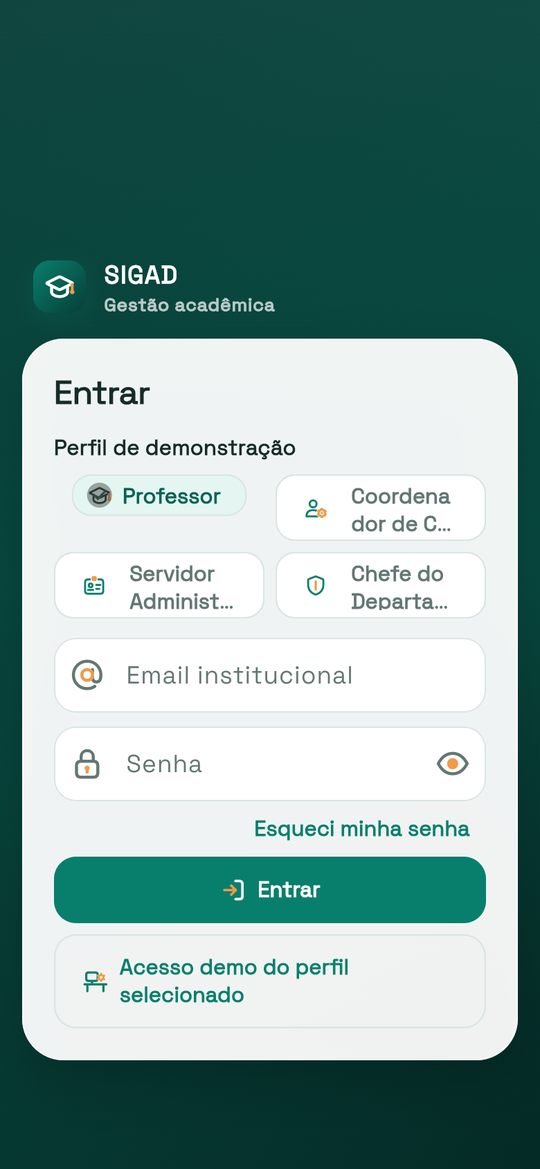
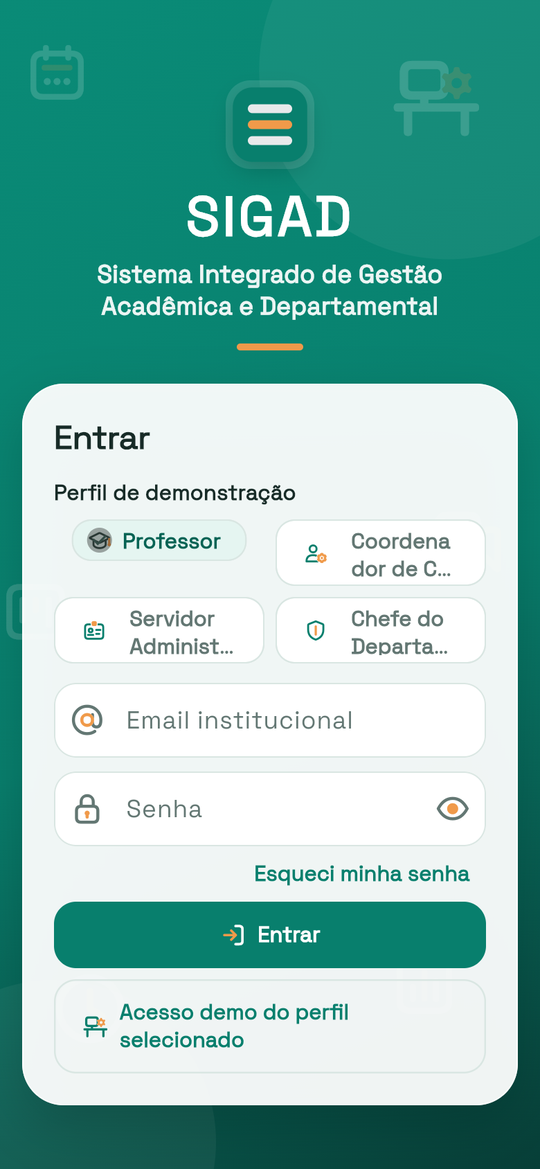
Redesenha a tela de entrada e mantém a foto do campus nos assets
A tela de entrada ganha fundo em degradê com círculos suaves e ícones do
SIGAD discretos, e uma apresentação com a logomarca de três barras, o
nome e o subtítulo do sistema. Em telas largas, a apresentação fica à
esquerda e o formulário à direita.

A foto do campus volta para assets/images, sem ser usada na tela.

Claude-Session: https://claude.ai/code/session_01X91bpgXAhfFeK7m6EUxjGv

diff --git a/lib/features/login/presentation/pages/login_page_v2.dart b/lib/features/login/presentation/pages/login_page_v2.dart
@@ -11,7 +11,6 @@ import '../../../../core/models/user_role.dart';
 import '../../../../core/services/app_event_logger.dart';
 import '../../../../core/services/app_feedback_service.dart';
 import '../../../../core/services/user_context_provider.dart';
-import '../../../../shared/widgets/brand_title.dart';
 
 class LoginPage extends StatefulWidget {
   const LoginPage({super.key});
@@ -55,35 +54,26 @@ class _LoginPageState extends State<LoginPage> {
                           constraints.maxWidth >= 760 && size.height >= 720;
 
                       return wide
-                          ? _LoginSurface(
-                              child: Row(
-                                crossAxisAlignment: CrossAxisAlignment.start,
-                                children: [
-                                  const Expanded(
-                                    flex: 5,
-                                    child: _InstitutionPanel(),
-                                  ),
-                                  const SizedBox(width: 24),
-                                  Expanded(flex: 6, child: _buildForm()),
-                                ],
-                              ),
+                          ? Row(
+                              crossAxisAlignment: CrossAxisAlignment.center,
+                              children: [
+                                const Expanded(
+                                  flex: 5,
+                                  child: _LoginHero(wide: true),
+                                ),
+                                const SizedBox(width: 40),
+                                Expanded(
+                                  flex: 6,
+                                  child: _LoginSurface(child: _buildForm()),
+                                ),
+                              ],
                             )
                           : Column(
                               crossAxisAlignment: CrossAxisAlignment.stretch,
                               children: [
-                                const SizedBox(
-                                  height: 150,
-                                  child: Padding(
-                                    padding: EdgeInsets.symmetric(
-                                      horizontal: 8,
-                                    ),
-                                    child: Align(
-                                      alignment: Alignment.bottomLeft,
-                                      child: _CompactBrandHeader(light: true),
-                                    ),
-                                  ),
-                                ),
-                                const SizedBox(height: 16),
+                                const SizedBox(height: 12),
+                                const _LoginHero(wide: false),
+                                const SizedBox(height: 24),
                                 _LoginSurface(child: _buildForm(compact: true)),
                               ],
                             );
@@ -332,52 +322,67 @@ class _LoginPageState extends State<LoginPage> {
   }
 }
 
-class _CompactBrandHeader extends StatelessWidget {
-  const _CompactBrandHeader({this.light = false});
+/// Apresentação do SIGAD na tela de entrada: logotipo, nome e subtítulo.
+///
+/// Em telas largas mostra também uma descrição curta e os destaques do app.
+class _LoginHero extends StatelessWidget {
+  const _LoginHero({required this.wide});
 
-  final bool light;
-
-  @override
-  Widget build(BuildContext context) {
-    return BrandTitle(compact: true, light: light);
-  }
-}
-
-class _InstitutionPanel extends StatelessWidget {
-  const _InstitutionPanel();
+  final bool wide;
 
   @override
   Widget build(BuildContext context) {
     final textTheme = Theme.of(context).textTheme;
-    return Container(
-      padding: const EdgeInsets.all(24),
-      decoration: BoxDecoration(
-        gradient: LinearGradient(
-          begin: Alignment.topLeft,
-          end: Alignment.bottomRight,
-          colors: [
-            SigadColors.brandDeep.withValues(alpha: 0.94),
-            SigadColors.brand.withValues(alpha: 0.86),
-          ],
+    final alinhamento = wide
+        ? CrossAxisAlignment.start
+        : CrossAxisAlignment.center;
+    final alinhamentoTexto = wide ? TextAlign.start : TextAlign.center;
+
+    return Column(
+      mainAxisSize: MainAxisSize.min,
+      crossAxisAlignment: alinhamento,
+      children: [
+        _Logomarca(tamanho: wide ? 84 : 64),
+        SizedBox(height: wide ? 22 : 14),
+        Text(
+          'SIGAD',
+          textAlign: alinhamentoTexto,
+          style: (wide ? textTheme.displayMedium : textTheme.displaySmall)
+              ?.copyWith(
+                color: Colors.white,
+                fontWeight: FontWeight.w800,
+                letterSpacing: 2,
+                height: 1,
+              ),
         ),
-        borderRadius: BorderRadius.circular(22),
-        border: Border.all(color: Colors.white.withValues(alpha: 0.18)),
-      ),
-      child: Column(
-        mainAxisSize: MainAxisSize.min,
-        crossAxisAlignment: CrossAxisAlignment.start,
-        children: [
-          const BrandTitle(compact: true, light: true),
-          const SizedBox(height: 24),
-          Text(
-            'Gestão acadêmica e departamental.',
-            style: textTheme.headlineSmall?.copyWith(color: Colors.white),
+        const SizedBox(height: 10),
+        Text(
+          'Sistema Integrado de Gestão\nAcadêmica e Departamental',
+          textAlign: alinhamentoTexto,
+          style: (wide ? textTheme.titleLarge : textTheme.titleMedium)
+              ?.copyWith(
+                color: Colors.white.withValues(alpha: 0.92),
+                fontWeight: FontWeight.w600,
+                height: 1.3,
+              ),
+        ),
+        const SizedBox(height: 16),
+        Container(
+          width: 48,
+          height: 5,
+          decoration: BoxDecoration(
+            color: SigadColors.accent,
+            borderRadius: BorderRadius.circular(3),
           ),
-          const SizedBox(height: 10),
+        ),
+        if (wide) ...[
+          const SizedBox(height: 22),
           Text(
-            'Planeje as atividades do DEE: carga docente, laboratórios, reuniões e demandas.',
-            style: textTheme.bodyMedium?.copyWith(
+            'Planeje as atividades do departamento: carga docente, '
+            'laboratórios, reuniões e demandas.',
+            style: textTheme.bodyLarge?.copyWith(
               color: Colors.white.withValues(alpha: 0.82),
+              height: 1.4,
             ),
           ),
           const SizedBox(height: 22),
@@ -394,6 +399,66 @@ class _InstitutionPanel extends StatelessWidget {
             label: 'Indicadores e relatórios',
           ),
         ],
+      ],
+    );
+  }
+}
+
+/// Logomarca do SIGAD: as três barras do ícone do app, com a do meio em
+/// destaque.
+class _Logomarca extends StatelessWidget {
+  const _Logomarca({required this.tamanho});
+
+  final double tamanho;
+
+  @override
+  Widget build(BuildContext context) {
+    final barra = tamanho * 0.5;
+    final espessura = tamanho * 0.1;
+
+    Widget linha(Color cor) => Container(
+      width: barra,
+      height: espessura,
+      decoration: BoxDecoration(
+        color: cor,
+        borderRadius: BorderRadius.circular(espessura / 2),
+      ),
+    );
+
+    return Semantics(
+      label: 'Logotipo do SIGAD',
+      image: true,
+      child: Container(
+        width: tamanho,
+        height: tamanho,
+        padding: EdgeInsets.all(tamanho * 0.08),
+        decoration: BoxDecoration(
+          color: Colors.white.withValues(alpha: 0.12),
+          borderRadius: BorderRadius.circular(tamanho * 0.28),
+        ),
+        child: DecoratedBox(
+          decoration: BoxDecoration(
+            color: SigadColors.brand,
+            borderRadius: BorderRadius.circular(tamanho * 0.22),
+            boxShadow: [
+              BoxShadow(
+                color: Colors.black.withValues(alpha: 0.18),
+                blurRadius: 14,
+                offset: const Offset(0, 6),
+              ),
+            ],
+          ),
+          child: Column(
+            mainAxisAlignment: MainAxisAlignment.center,
+            children: [
+              linha(const Color(0xFFE8E9EA)),
+              SizedBox(height: espessura * 0.8),
+              linha(SigadColors.accent),
+              SizedBox(height: espessura * 0.8),
+              linha(const Color(0xFFE8E9EA)),
+            ],
+          ),
+        ),
       ),
     );
   }
@@ -468,49 +533,81 @@ class _LoginSurface extends StatelessWidget {
 class _LoginBackground extends StatelessWidget {
   const _LoginBackground();
 
+  // Ícones decorativos espalhados pelo fundo: (ícone, x, y, tamanho), com
+  // posições relativas à tela.
+  static const _icones = <(IconData, double, double, double)>[
+    (SigadIcons.laboratorio, 0.80, 0.08, 64),
+    (SigadIcons.calendario, 0.10, 0.06, 44),
+    (SigadIcons.conversa, 0.86, 0.46, 52),
+    (SigadIcons.kanban, 0.06, 0.52, 46),
+    (SigadIcons.relogio, 0.16, 0.86, 54),
+    (SigadIcons.analise, 0.78, 0.84, 46),
+  ];
+
   @override
   Widget build(BuildContext context) {
-    final width = MediaQuery.sizeOf(context).width;
-    final compact = width < 760;
-
-    return ColoredBox(
+    return DecoratedBox(
       key: const ValueKey('login-background'),
-      color: SigadColors.brandDeep,
-      child: Stack(
-        fit: StackFit.expand,
-        children: [
-          DecoratedBox(
-            decoration: BoxDecoration(
-              gradient: LinearGradient(
-                begin: Alignment.topLeft,
-                end: Alignment.bottomRight,
-                stops: const [0, 0.56, 1],
-                colors: [
-                  SigadColors.brandDeep.withValues(
-                    alpha: compact ? 0.48 : 0.64,
+      decoration: const BoxDecoration(
+        gradient: LinearGradient(
+          begin: Alignment.topLeft,
+          end: Alignment.bottomRight,
+          stops: [0, 0.55, 1],
+          colors: [Color(0xFF0A8B77), SigadColors.brand, SigadColors.brandDeep],
+        ),
+      ),
+      child: LayoutBuilder(
+        builder: (context, constraints) {
+          final w = constraints.maxWidth;
+          final h = constraints.maxHeight;
+          return ExcludeSemantics(
+            child: Stack(
+              children: [
+                Positioned(
+                  right: -w * 0.18,
+                  top: -w * 0.22,
+                  child: _Circulo(diametro: w * 0.7),
+                ),
+                Positioned(
+                  left: -w * 0.2,
+                  bottom: -w * 0.25,
+                  child: _Circulo(diametro: w * 0.6),
+                ),
+                for (final (icone, x, y, tamanho) in _icones)
+                  Positioned(
+                    left: x * w - tamanho / 2,
+                    top: y * h - tamanho / 2,
+                    child: Opacity(
+                      opacity: 0.16,
+                      child: SigadIcon(
+                        icone,
+                        color: Colors.white,
+                        size: tamanho,
+                      ),
+                    ),
                   ),
-                  SigadColors.brandDark.withValues(
-                    alpha: compact ? 0.28 : 0.36,
-                  ),
-                  Colors.black.withValues(alpha: 0.46),
-                ],
-              ),
+              ],
             ),
-          ),
-          DecoratedBox(
-            decoration: BoxDecoration(
-              gradient: LinearGradient(
-                begin: Alignment.topCenter,
-                end: Alignment.bottomCenter,
-                colors: [
-                  Colors.white.withValues(alpha: 0.04),
-                  Colors.transparent,
-                  SigadColors.brandDeep.withValues(alpha: 0.32),
-                ],
-              ),
-            ),
-          ),
-        ],
+          );
+        },
+      ),
+    );
+  }
+}
+
+class _Circulo extends StatelessWidget {
+  const _Circulo({required this.diametro});
+
+  final double diametro;
+
+  @override
+  Widget build(BuildContext context) {
+    return Container(
+      width: diametro,
+      height: diametro,
+      decoration: BoxDecoration(
+        shape: BoxShape.circle,
+        color: Colors.white.withValues(alpha: 0.05),
       ),
     );
   }
